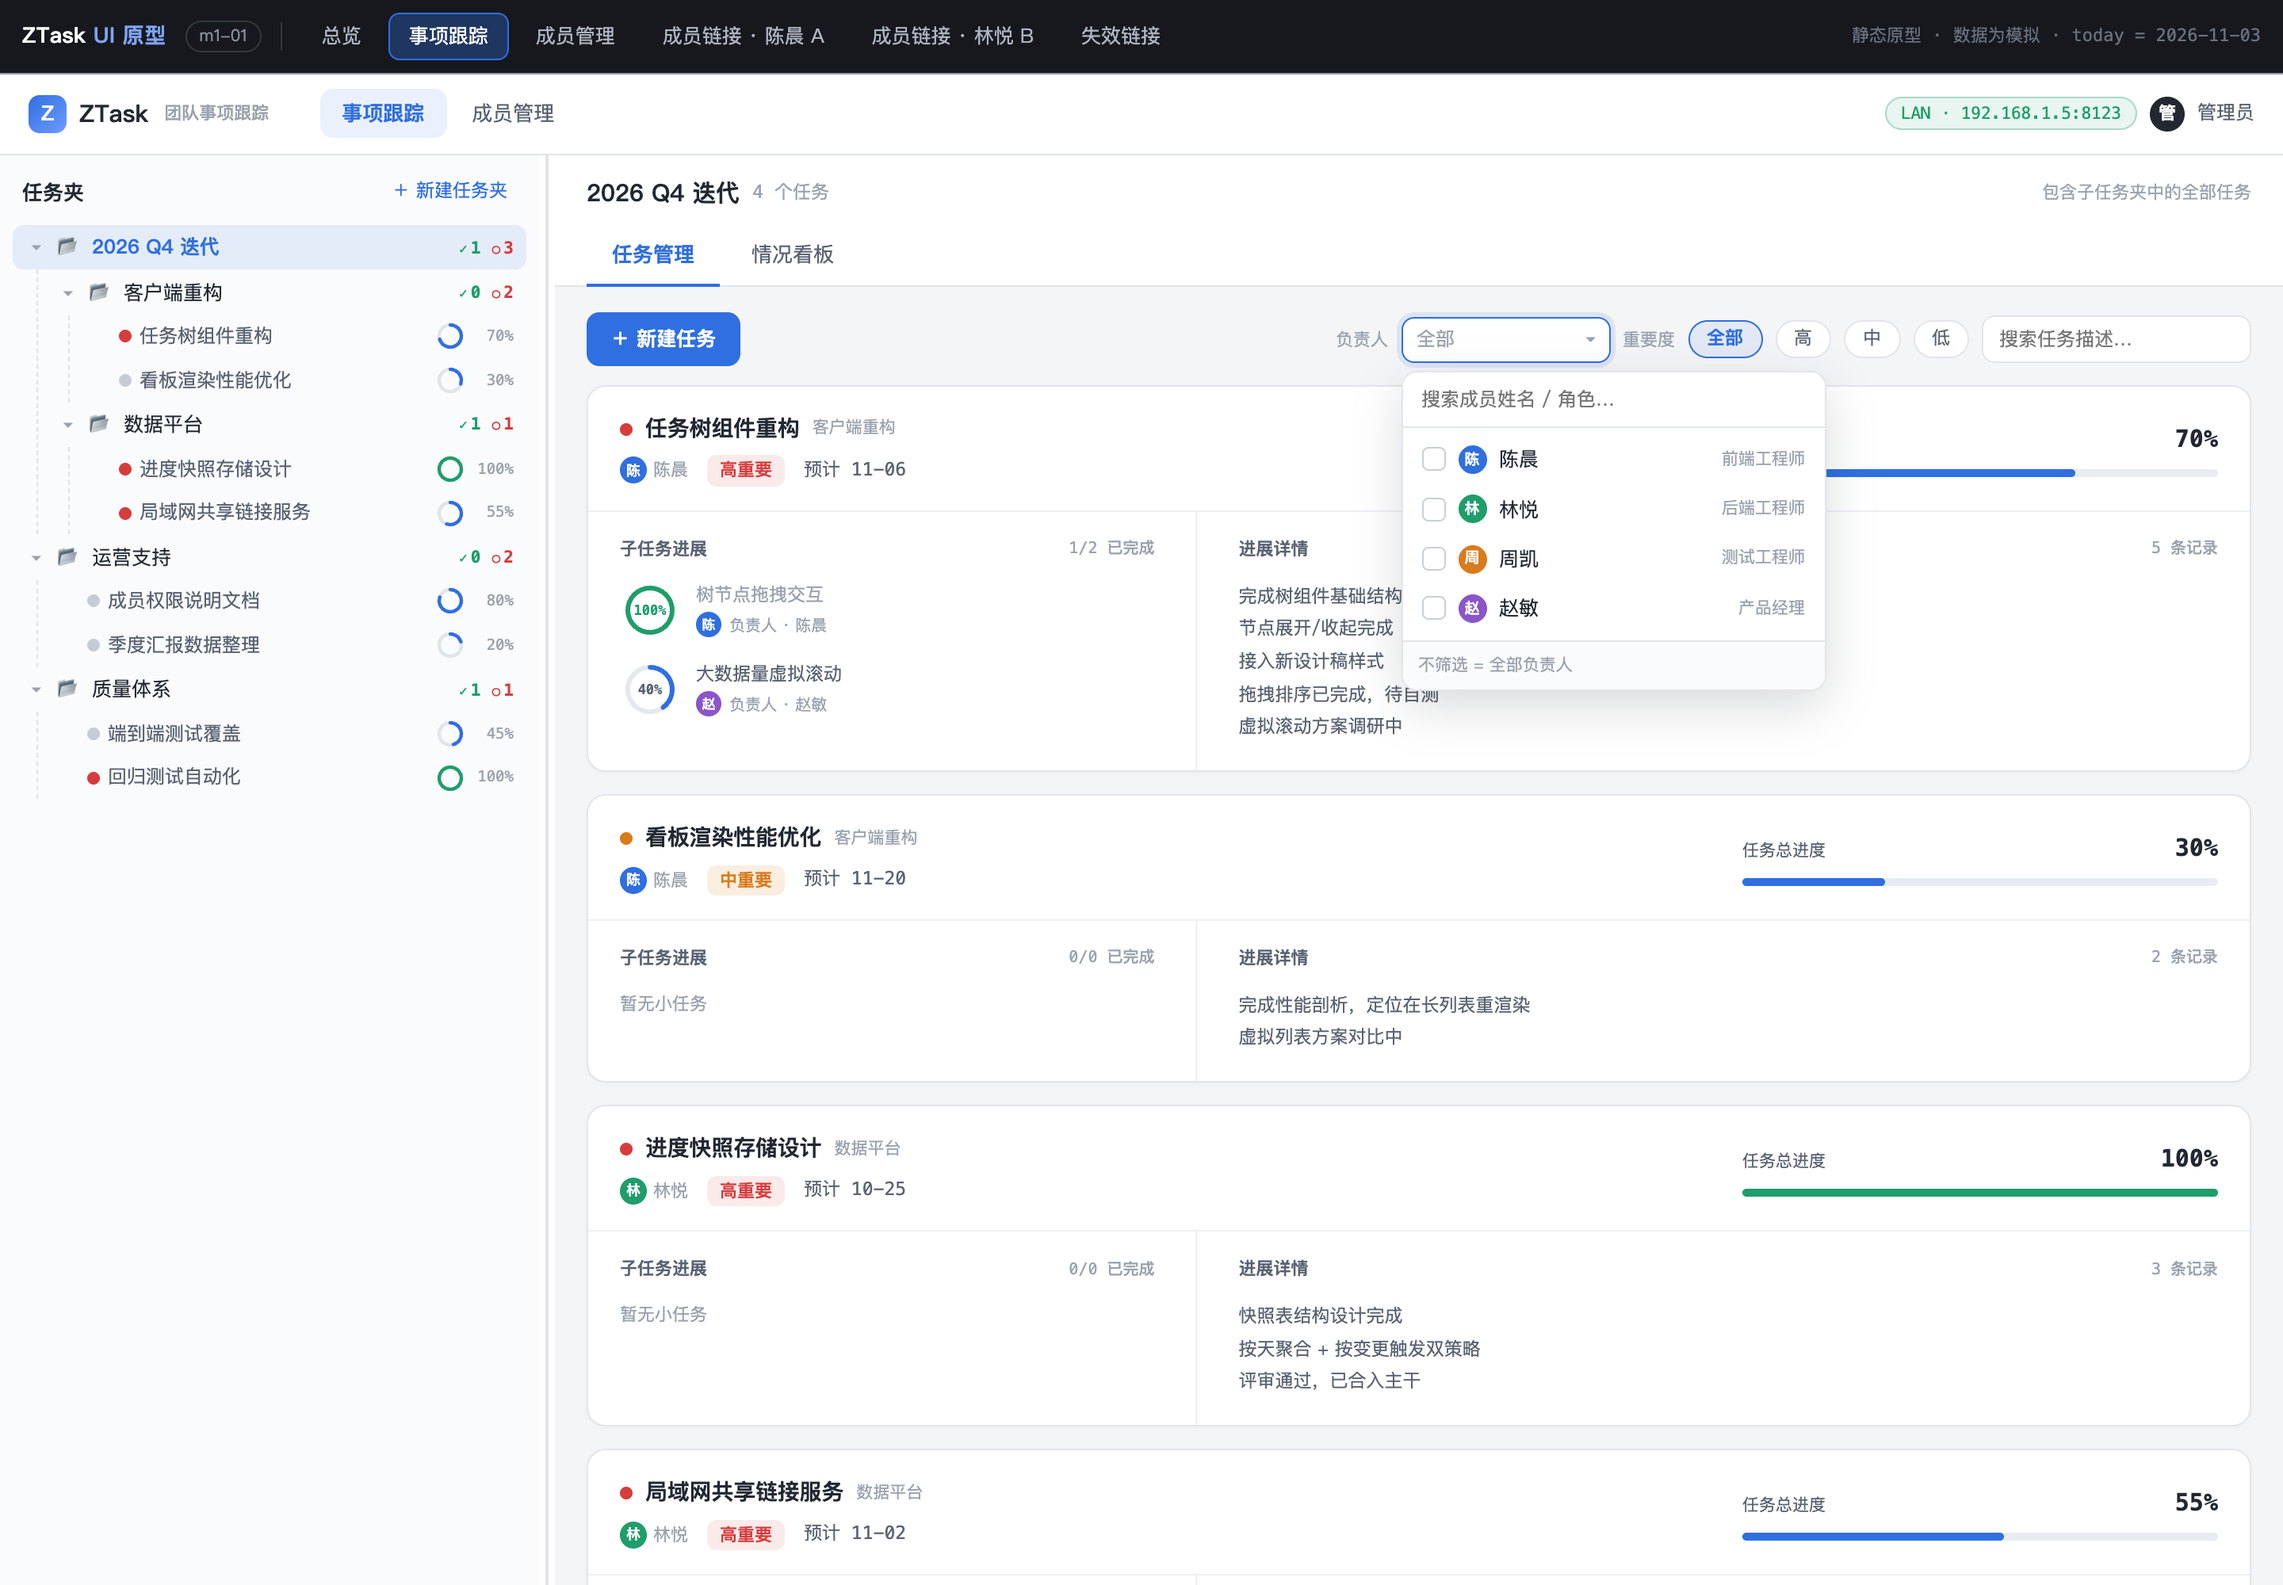
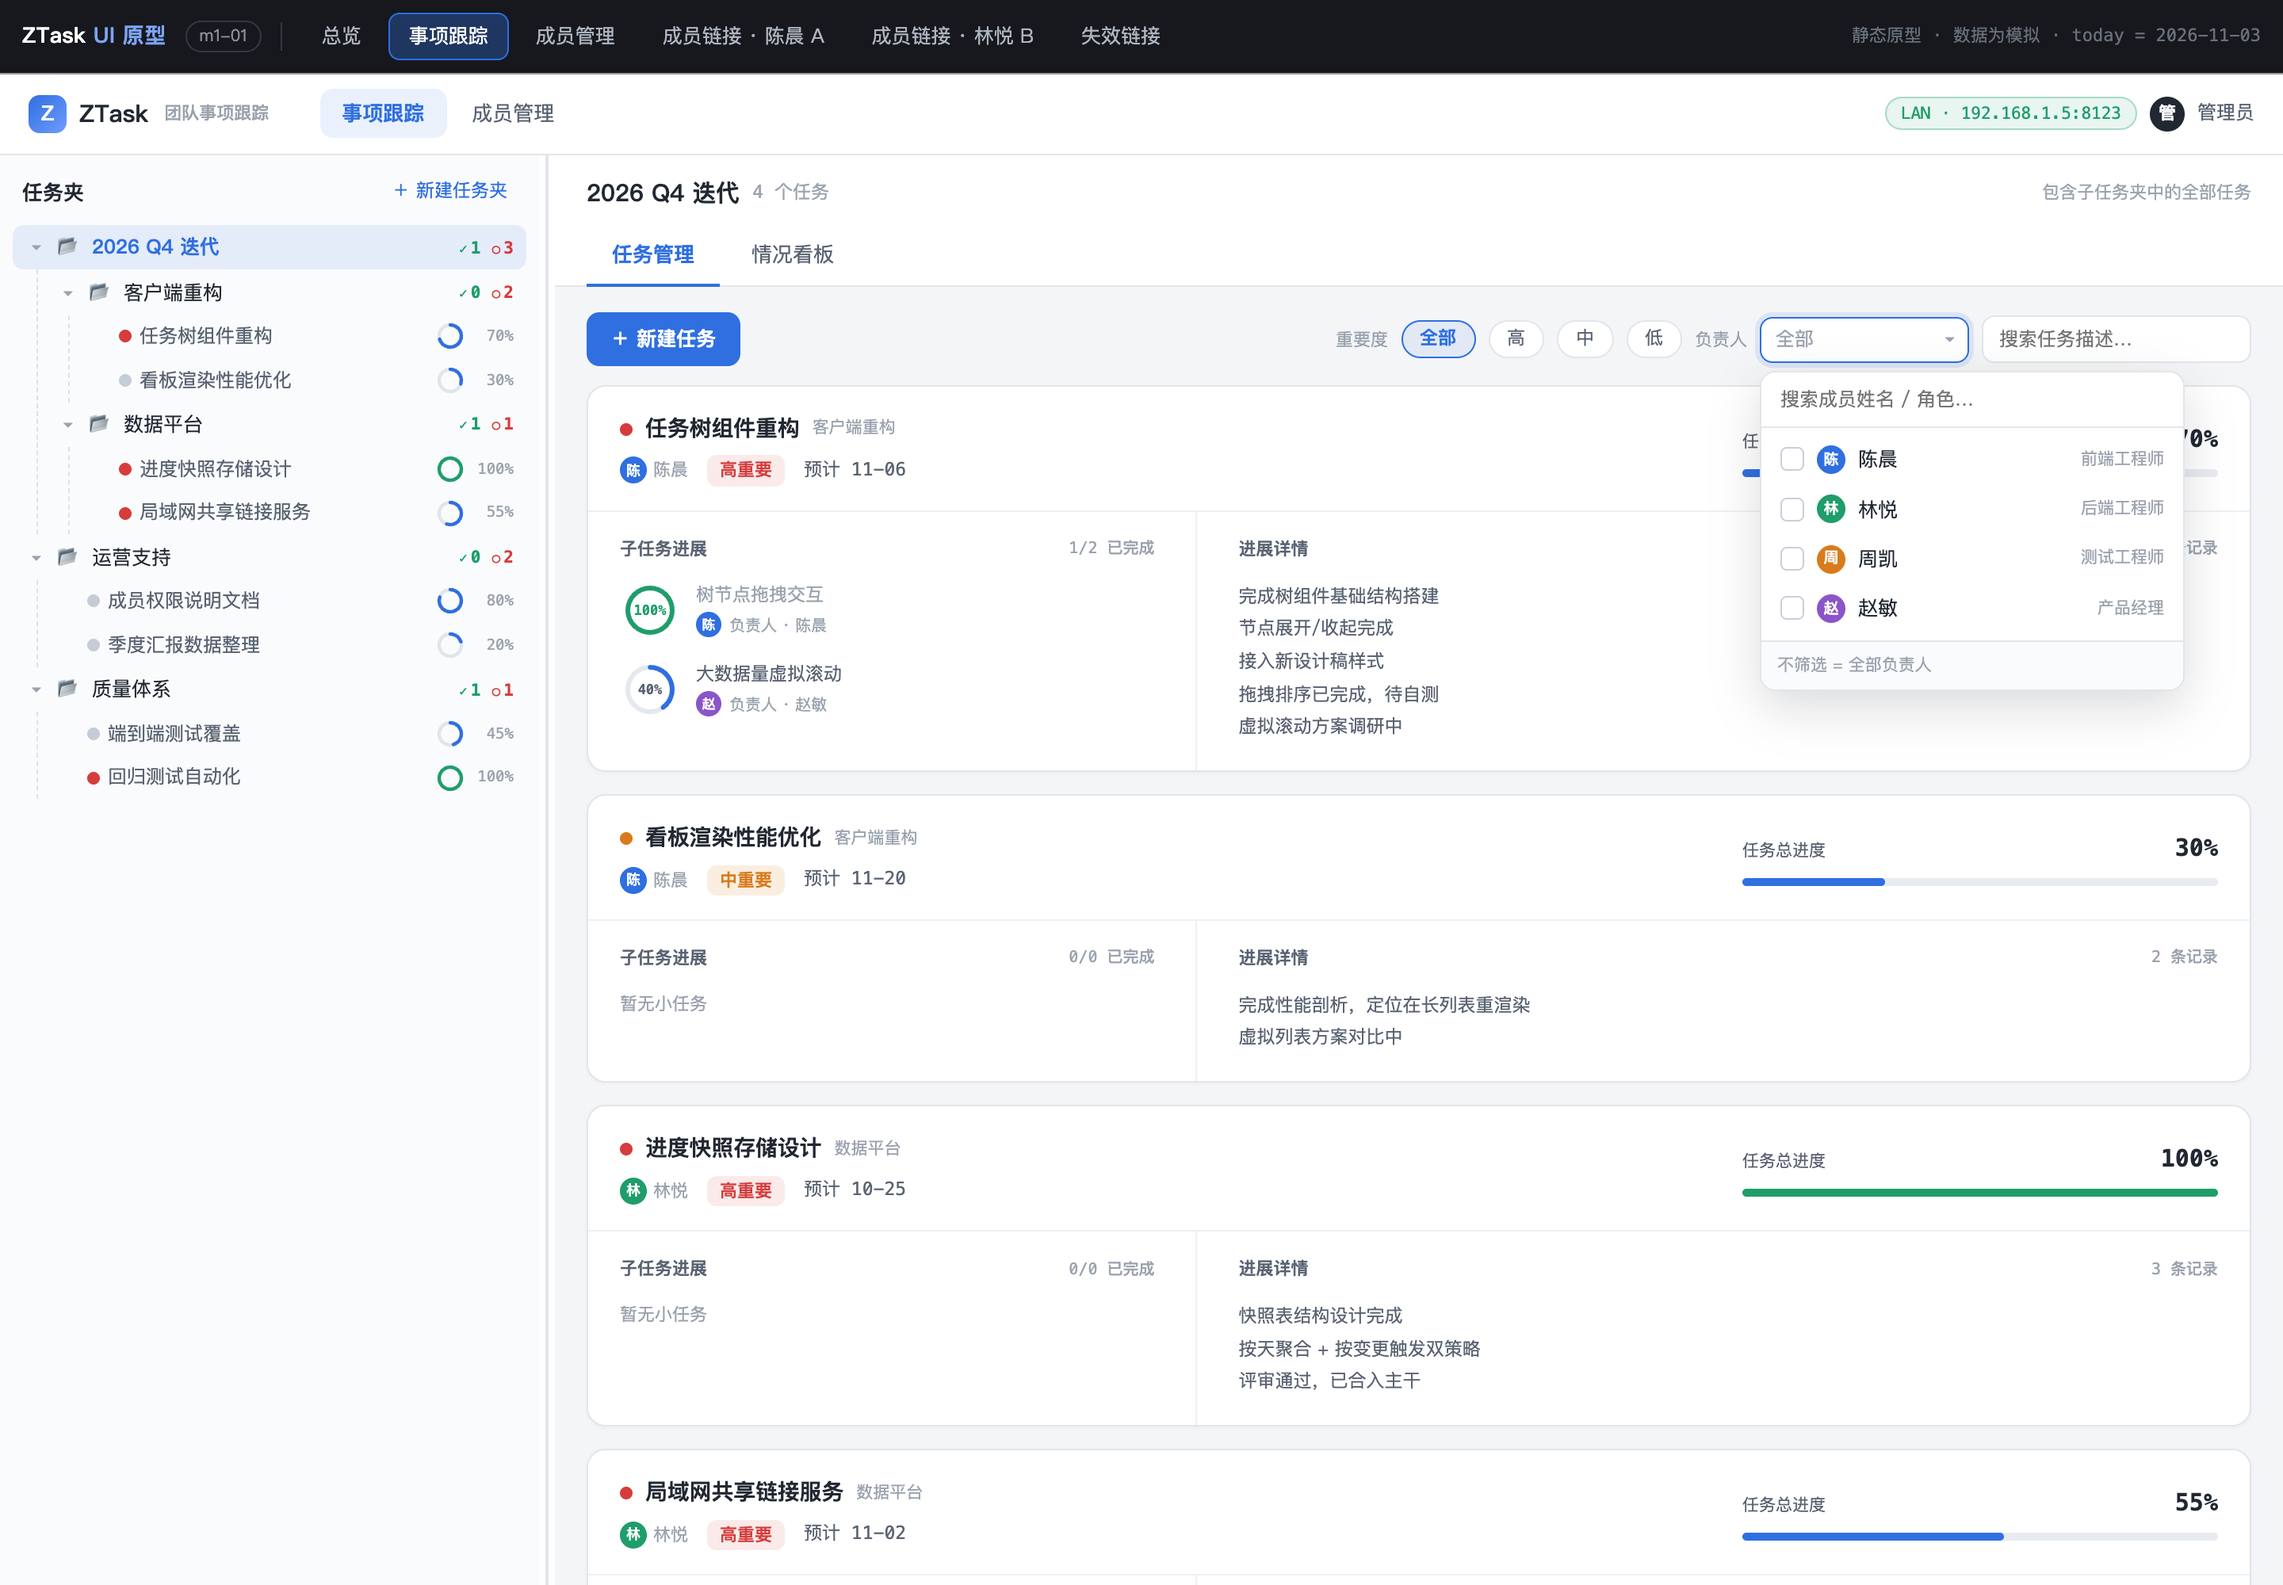
fix(prototype): place assignee filter after importance (#62)
- Move the assignee multi-select to the right of the importance chips and left of the search box.
- Right-align the toolbar dropdown when it would overflow the board on narrow viewports.
- Add a toolbar order spec and refresh the before/after review screenshots.

Changed region(s): [[0.5938, 0.186, 0.9688, 0.465]]

diff --git a/plan/m1-01-ui-prototype/ztask-prototype.html b/plan/m1-01-ui-prototype/ztask-prototype.html
@@ -222,6 +222,7 @@
     background: var(--bg-card); border: 1px solid var(--border); border-radius: 10px;
     box-shadow: 0 10px 30px rgba(20,26,38,.16); overflow: hidden;
   }
+  .fsel.align-right .fsel-panel { left: auto; right: 0; }
   .fsel-search { width: 100%; font: inherit; font-size: 12px; padding: 8px 12px; border: none; border-bottom: 1px solid var(--border); outline: none; }
   .fsel-list { max-height: 228px; overflow-y: auto; padding: 4px; }
   .fsel-opt {
@@ -662,13 +663,13 @@
           <div class="toolbar">
             <button class="btn primary" id="btn-new-task">＋ 新建任务</button>
             <span class="spacer"></span>
-            <span class="toolbar-label">负责人</span>
-            <div class="fsel" id="assignee-filter"></div>
             <span class="toolbar-label">重要度</span>
             <button class="fchip active" data-imp="all">全部</button>
             <button class="fchip" data-imp="high">高</button>
             <button class="fchip" data-imp="mid">中</button>
             <button class="fchip" data-imp="low">低</button>
+            <span class="toolbar-label">负责人</span>
+            <div class="fsel" id="assignee-filter"></div>
             <input class="search-box" id="task-search" placeholder="搜索任务描述…">
           </div>
           <div class="task-list" id="task-rows"></div>
@@ -1229,6 +1230,10 @@ function renderAssigneeFilter() {
   const first = selected[0];
   const extra = selected.length - 1;
   const list = MEMBERS.filter(m => !assigneeQuery || m.name.includes(assigneeQuery) || m.role.includes(assigneeQuery));
+  const boardRect = el.closest('.board-body')?.getBoundingClientRect();
+  const triggerRect = el.getBoundingClientRect();
+  const alignRight = !!boardRect && triggerRect.left + 268 > boardRect.right - 12;
+  el.classList.toggle('align-right', alignRight);
   el.classList.toggle('open', assigneePanelOpen);
   el.innerHTML = `<button class="fsel-trigger${selected.length ? ' has-value' : ''}" type="button" aria-haspopup="true" aria-expanded="${assigneePanelOpen}" title="${selected.length ? '已选负责人：' + esc(selected.map(m => m.name).join('、')) : '按负责人筛选任务'}">
       ${selected.length

diff --git a/.agents/flow/issues/m8-assignee-multiselect-filter.en.md b/.agents/flow/issues/m8-assignee-multiselect-filter.en.md
@@ -28,7 +28,7 @@ The task management prototype currently offers only importance and keyword searc
 
 ## Goals
 
-- Add a multi-select assignee dropdown to the toolbar between "New task" and "Importance", with member search, multi-select, and clear.
+- Add a multi-select assignee dropdown to the right of the importance filter and left of the search box, with member search, multi-select, and clear.
 - When a main-task owner matches, keep the whole task and all of its subtasks even if other people own some subtasks.
 - When only a subtask owner matches, keep the main task but show only the subtasks owned by that person, and note the filtering inside the card.
 - Combine the assignee filter with importance and keyword search using an intersection.

diff --git a/.agents/flow/issues/m8-assignee-multiselect-filter.md b/.agents/flow/issues/m8-assignee-multiselect-filter.md
@@ -28,7 +28,7 @@ github:
 
 ## 目标
 
-- 在「新建任务」与「重要度」之间的工具栏新增负责人多选下拉，支持搜索成员、多选与清除。
+- 在重要度筛选右侧、搜索框左侧新增负责人多选下拉，支持搜索成员、多选与清除。
 - 主任务负责人命中时保留整条任务及其全部子任务，即使部分子任务由其他人负责。
 - 仅子任务负责人命中时保留主任务，但只显示该负责人负责的子任务，并在卡片内标明已按负责人筛选。
 - 负责人筛选与重要度、关键词搜索同时生效，三者取交集。
